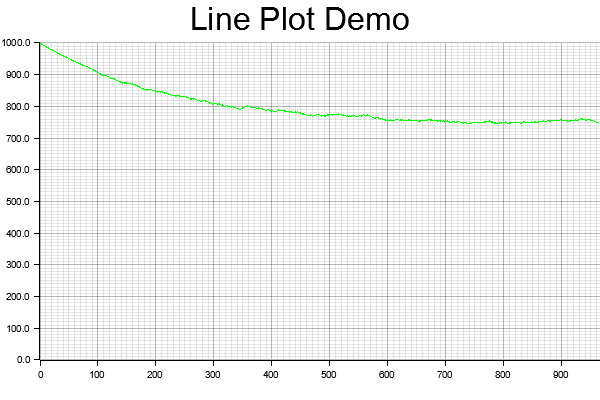
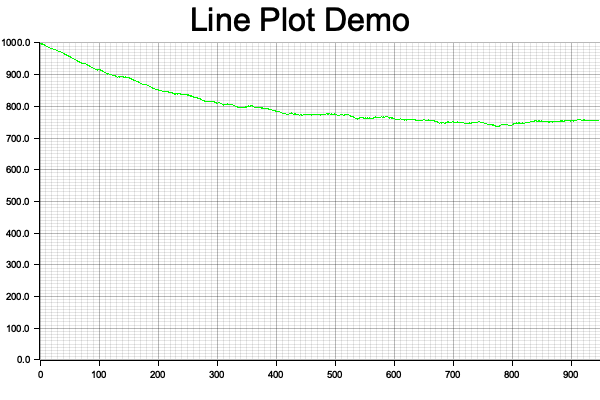
Save all the species history

diff --git a/src/simulation.rs b/src/simulation.rs
@@ -12,7 +12,7 @@ pub struct Simulation {
     rates_vector: Vec<f32>,
     propensity_vector: Vec<f32>,
     total_rate_sum: f32,
-    pub species_history: Vec<f32>
+    pub species_history: HashMap<String, Vec<f32>>
 }
 
 /*
@@ -32,7 +32,7 @@ impl Simulation {
             rates_vector: Vec::new(),
             propensity_vector: Vec::new(),
             total_rate_sum: 0.,
-            species_history: Vec::new()
+            species_history: HashMap::new()
         }
     }
 
@@ -46,8 +46,9 @@ impl Simulation {
         self.propensity_vector.push(0.);
     }
     
-    pub fn add_species(&mut self, particle_name: String, particle_number: f32) {
-        self.species.insert(particle_name, particle_number);
+    pub fn add_species(&mut self, particle_name: &str, particle_number: f32) {
+        self.species.insert(particle_name.to_string(), particle_number);
+        self.species_history.insert(particle_name.to_string(), Vec::new());
     }
 
     fn calculate_rate_reaction(&self, reaction: &Reaction) -> f32 {
@@ -65,7 +66,6 @@ impl Simulation {
             } else {
                 self.propensity_vector[i] = self.rates_vector[i] / self.total_rate_sum + self.propensity_vector[i-1];
             }
-            println!("{}",self.propensity_vector[i]);
         }
         if first_call {
             self.propensity_vector.push(1.);
@@ -110,7 +110,9 @@ impl Simulation {
 
             self.prepare_propensities(false);
             println!("A: {}, B: {}, C: {}", self.species["A"], self.species["B"], self.species["C"]);
-            self.species_history.push(self.species["A"]);            
+            for (spec, n) in &self.species {
+                self.species_history.get_mut(spec).unwrap().push(*n);
+            }  
         }
     }
 }

diff --git a/src/main.rs b/src/main.rs
@@ -20,9 +20,9 @@ fn main() {
     let total_time: f32 = 5.;
 
     let mut simulation = Simulation::new(total_time);
-    simulation.add_species("A".to_string(), n_a);
-    simulation.add_species("B".to_string(), n_b);
-    simulation.add_species("C".to_string(), n_c);
+    simulation.add_species("A", n_a);
+    simulation.add_species("B", n_b);
+    simulation.add_species("C", n_c);
 
     simulation.add_reaction(vec!["A".to_string(), "B".to_string()], vec!["C".to_string()], Kf);  // OMG
     simulation.add_reaction(vec!["C".to_string()], vec!["A".to_string(), "B".to_string()], Kr);
@@ -41,12 +41,12 @@ fn plot(simulation: Simulation) {
         .set_label_area_size(LabelAreaPosition::Left, 40)
         .set_label_area_size(LabelAreaPosition::Bottom, 40)
         .caption("Line Plot Demo", ("sans-serif", 40))
-        .build_cartesian_2d(0..simulation.species_history.len(), 0.0..1000.0)
+        .build_cartesian_2d(0..simulation.species_history["A"].len(), 0.0..1000.0)
         .unwrap();
 
     ctx.configure_mesh().draw().unwrap();
 
     ctx.draw_series(
-        LineSeries::new((0..).zip(simulation.species_history.iter().map(|x | *x as f64)), &GREEN)
+        LineSeries::new((0..).zip(simulation.species_history["A"].iter().map(|x | *x as f64)), &GREEN)
     ).unwrap();
 }
